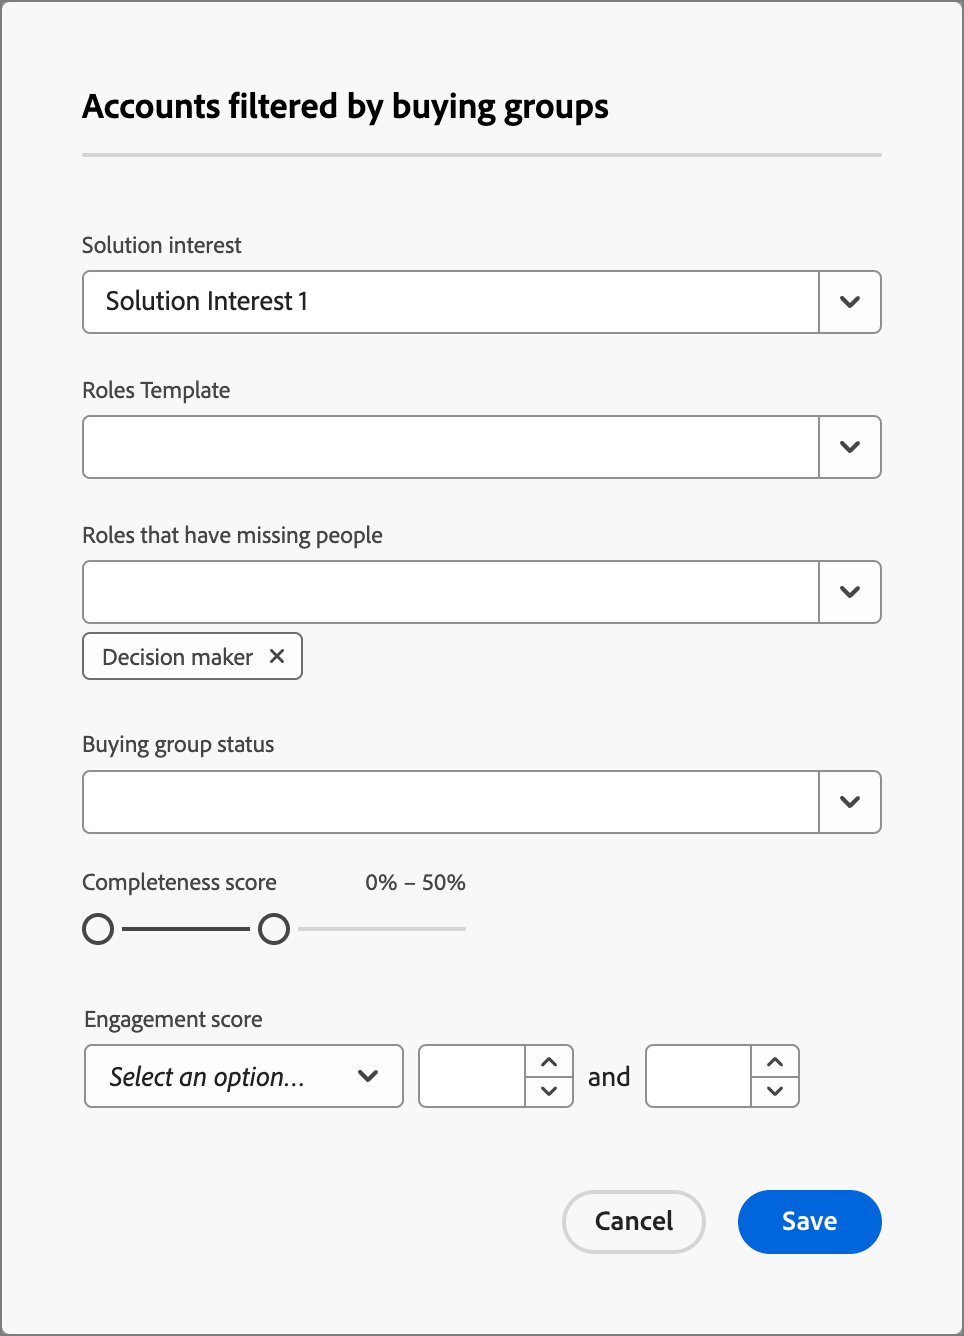
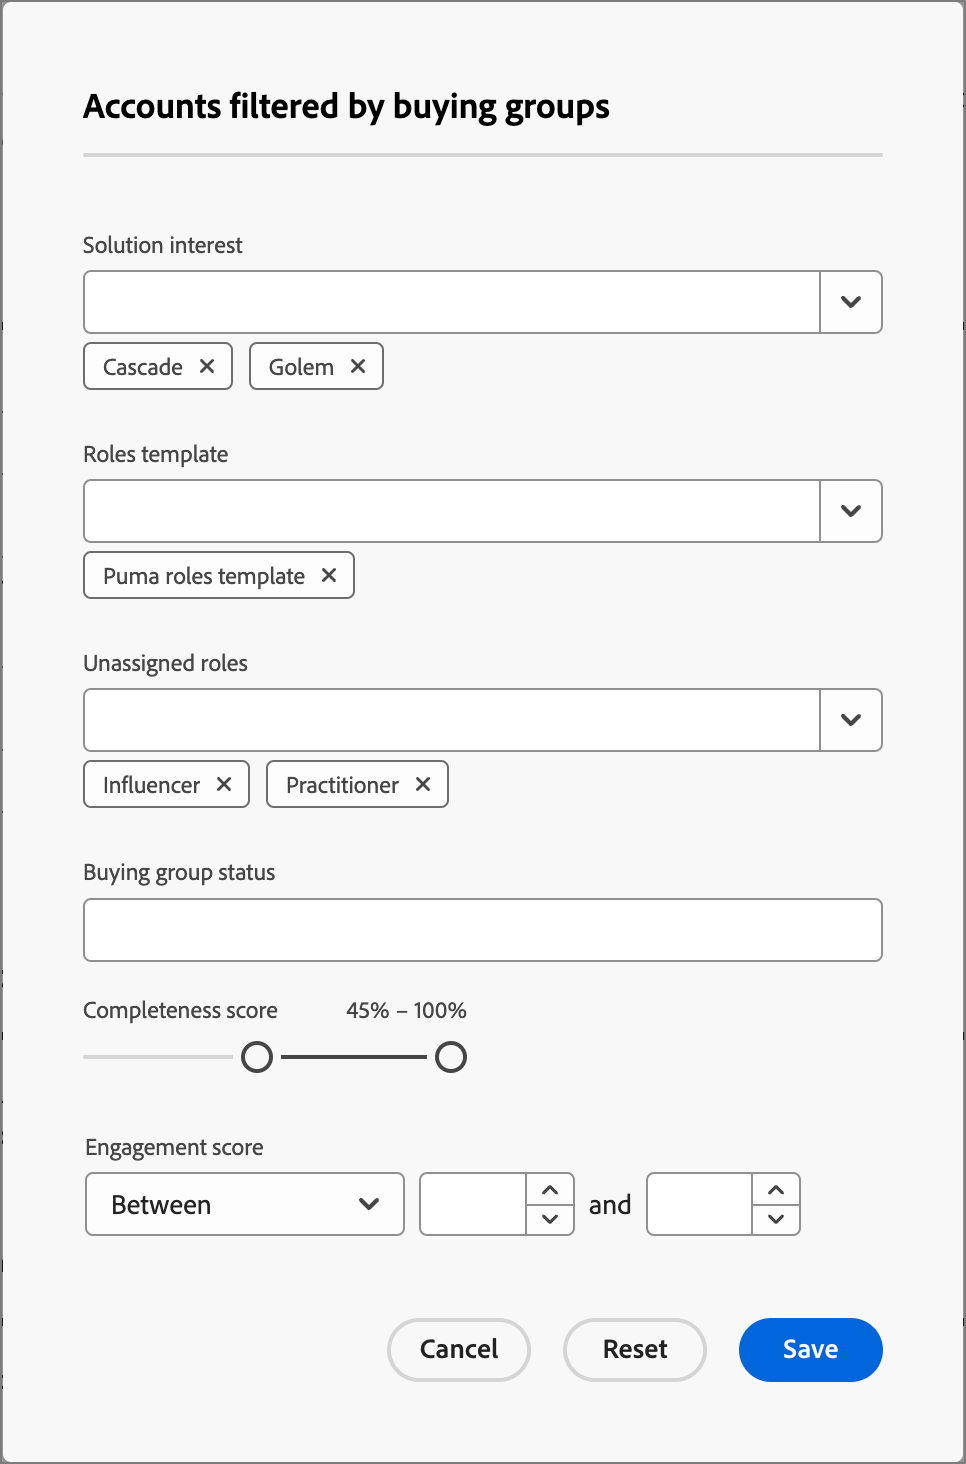
Edits and add context help

diff --git a/help/user/data/linkedin-account-matched-audiences.md b/help/user/data/linkedin-account-matched-audiences.md
@@ -1,15 +1,20 @@
 ---
 title: LinkedIn Account Matched Audiences
 description: Learn how to connect a LinkedIn account and activate a dataflow for buying groups.
-badgeBeta: label="Beta" type="informative" tooltip="Beta feature"
+
 ---
 # LinkedIn Account Matched Audiences
 
-Journey Optimizer B2B Edition offers the ability to generate LinkedIn Ad audiences through Account Matched Audiences, and is designed to help you fill empty roles in your buying groups. By defining a set of buying group filters, you can maintain a LinkedIn Matched Audience to target prospects who match your buying group parameters. This feature leverages AEP Destinations to manage some aspects of the integration.  There is a limit of ten dataflows.
+Journey Optimizer B2B Edition offers the ability to generate LinkedIn Ad audiences through Account Matched Audiences, and is designed to help you fill empty roles in your buying groups. By defining a set of buying group filters, you can maintain a LinkedIn Matched Audience to target prospects who match your buying group parameters. This feature leverages Experience Platform Destinations to manage some aspects of the integration. There is a limit of ten dataflows.
 
-Before you initiate a dataflow from Journey Optimizer B2B Edition, you must have at least one instance of the [(Companies) LinkedIn Matched Audience destination connector](https://experienceleague.adobe.com/en/docs/experience-platform/destinations/catalog/social/linkedin#connect) with a LinkedIn Campaign Manager account configured in your Experience Platform application. 
+Before you initiate a dataflow from Journey Optimizer B2B Edition, you must have at least one instance of the [(Companies) LinkedIn Matched Audience destination connector](https://experienceleague.adobe.com/en/docs/experience-platform/destinations/catalog/social/linkedin#connect) with a LinkedIn Campaign Manager account configured in your Experience Platform application.
 
-## Configure a new LinkedIn account
+## Configure a new LinkedIn account connection {#linkedin-destination-setup}
+
+>[!CONTEXTUALHELP]
+>id="ajo-b2b_linkedin_destination_setup"
+>title="LinkedIn destination setup is required"
+>abstract="Send accounts filtered by buying groups to a Linkedin destination to engage with potential buying group members. You can create up to 10 data flows for 10 different groups of filtered accounts. To get started with this feature, add a Linkedin destination first."
 
 1. In Experience Platform, go to **[!UICONTROL Connections]** > **[!UICONTROL Destinations]** in the left navigation and select the **[!UICONTROL Catalog]** tab.
 
@@ -17,11 +22,11 @@ Before you initiate a dataflow from Journey Optimizer B2B Edition, you must have
 
    ![Access the (Companies) LinkedIn Matched Audience connector](./assets/aep-destinations-catalog-linkedin.png){width="800" zoomable="yes"}
 
-1. Select **New Account** > **Connect to LinkedIn**.
+1. Select **[!UICONTROL New Account]** > **[!UICONTROL Connect to LinkedIn]**.
 
 1. Provide your LinkedIn credentials and sign in.
 
-   LinkedIn account is connected.
+   The LinkedIn account is connected as a destination.
 
 ## Update the account details
    
@@ -43,7 +48,7 @@ The name and description for the LinkedIn account are visible for buying groups 
 
 >[!NOTE]
 >
->If you already have ten dataflows, you cannot create another. First delete one before you create a new one.
+>If you already have ten dataflows, you cannot create another. If you are at the maximum, delete one in Experience Platform before you create a new one in Journey Optimizer B2B Edition. 
 
 1. In Journey Optimizer B2B Edition, go to **[!UICONTROL Accounts]** > **[!UICONTROL Buying groups]** in the left navigation.
 
@@ -69,16 +74,20 @@ The name and description for the LinkedIn account are visible for buying groups 
    >
    >At this time, filters cannot be edited after the dataflow is activated. Double-check your work before you activate the dataflow.
 
-    ![Specify parameters for the account audience for buying groups](./assets/destinations-linkedin-activate-buying-group-filters.png){width="400"}
+   ![Specify the account audience filtering according to buying groups](./assets/destinations-linkedin-activate-buying-group-filters.png){width="400"}
 
    For the **[!UICONTROL Engagement score]**, the operator `Between` is inclusive, as are percentage ranges. For example, 5.1 and 5 are both _between_ 5 and 6.
 
    Empty conditions are treated like `Is Any`.
 
-1. Select **[!UICONTROL Select LinkedIn destination]** and choose the configuration that you want to use. 
+   Click **[!UICONTROL Save]** to add the specified filters.
 
-  The created dataflow under that destination configuration and a corresponding virtual segment.
+1. Click **[!UICONTROL Select LinkedIn destination]** and choose the configured LinkedIn destination that you want to use. 
+
+   Upon activation, this setting creates the dataflow using the destination configuration and a corresponding virtual segment.
 
 1. Double-check your settings and click **[!UICONTROL Activate]** at the top right.
 
-A confirmation banner is displayed with a link to your dataflows menu in Experience Platform so that you can check on the dataflow record.
+   Click **[!UICONTROL Activate]** again in the confirmation dialog.
+
+   A banner is displayed with a link to your dataflows menu in Experience Platform so that you can check the dataflow record.
